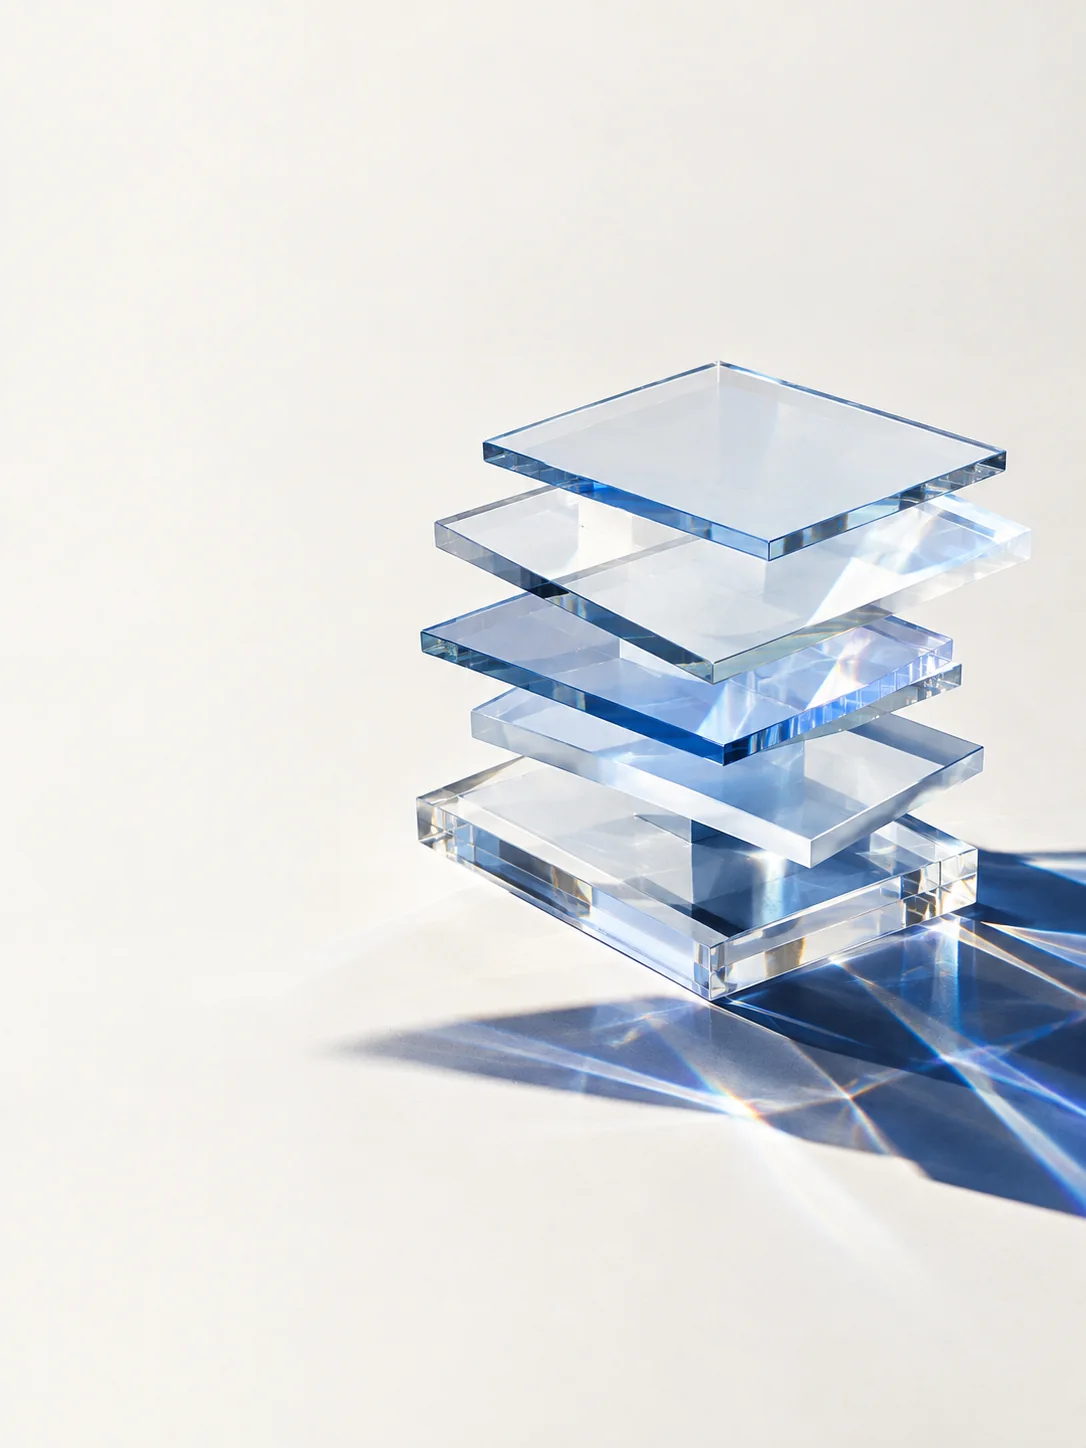
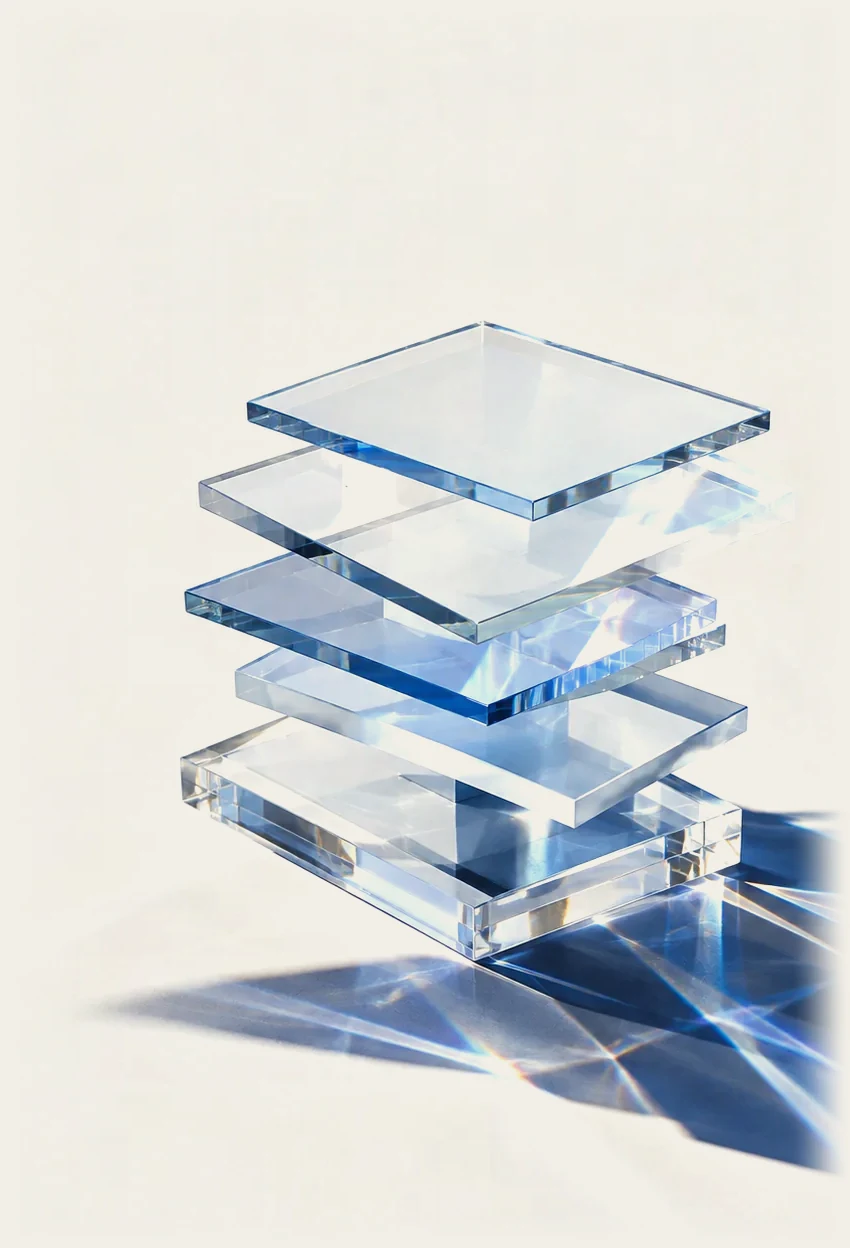
Integra a foto do painel 04 a pagina, como o clipe do painel 01
Mesmo tratamento do predio, agora assado no proprio arquivo. O fundo de
estudio da foto e corrigido para branco puro e multiplicado pelo marfim
da secao, entao ele sai do arquivo exatamente na cor da pagina e o
retangulo deixa de existir. As bordas se dissolvem nessa mesma cor numa
faixa de 7% nas laterais e 3% em cima e embaixo.

Tres detalhes que o clipe nao tinha:

- o degrade do estudio corre nas duas direcoes (246 no canto superior
  esquerdo, 230 no direito), entao uma correcao por linha nao servia. O
  nivel do fundo e uma superficie ajustada aos blocos que sao so fundo,
  medida onde da para medir e interpolada onde o vidro cobre;
- o percentil que estima o fundo acerta o formato do degrade mas fica
  acima do fundo real, o que deixava a foto 3 niveis abaixo do marfim em
  toda a sua area, ou seja um retangulo palido. Um ganho unico, tirado
  da mediana dos blocos limpos, leva o fundo a 255 (medido: 252,6 antes,
  desvio medio na emenda cai de 5,4 para 1,9);
- as margens mortas saem no recorte: o objeto ocupava x 312..1084 e
  y 84..1244 de 1086x1448, quase um terco da largura era so fundo.
  Cortado, o vidro cresce ~16% sem mexer no layout. A direita nao sobra
  nada (o vidro e a sombra saem pela borda), entao aquele lado e
  dissolvido em vez de recortado.

Com o fundo ja na cor certa, a mascara do painel e o filter deixam de
fazer sentido: a mascara comia 34% da esquerda e agora so apagaria a
peca, e contrast(1.02) empurrava o marfim assado de 241,238,230 para
[…]

diff --git a/cinematic.css b/cinematic.css
@@ -288,19 +288,15 @@ h1, h2, h3 { font-weight: 600; line-height: 1.04; letter-spacing: -0.028em; }
 
 /* ---- light-theme panel (e.g. 01 Societário): white bg, image faded on the right ---- */
 .panel.area-light { background: var(--ivory); }
-.panel.area-light .p-media {
-  left: auto; right: 0; width: 48%;
-  -webkit-mask-image:
-    linear-gradient(90deg, transparent 0%, #000 34%, #000 100%),
-    linear-gradient(180deg, transparent 0%, #000 6%, #000 94%, transparent 100%);
-  -webkit-mask-composite: source-in;
-          mask-image:
-    linear-gradient(90deg, transparent 0%, #000 34%, #000 100%),
-    linear-gradient(180deg, transparent 0%, #000 6%, #000 94%, transparent 100%);
-          mask-composite: intersect;
-}
+/* Sem mascara. O fundo de estudio da foto ja foi corrigido e multiplicado
+   pelo marfim da secao no proprio arquivo, e as bordas dela ja se
+   dissolvem nessa cor, entao nao ha retangulo para esconder. A mascara
+   antiga comia 34% da esquerda e agora so apagaria a peca de vidro. */
+.panel.area-light .p-media { left: auto; right: 0; width: 48%; }
 .panel.area-light .p-media image-slot { height: 100%; }
-.panel.area-light .p-media .p-img { width: 100%; height: 100%; object-fit: contain; object-position: center; display: block; filter: saturate(0.92) contrast(1.02); }
+/* sem filter: contrast(1.02) empurrava o marfim assado na imagem de
+   241,238,230 para 243,240,232 e reabria a beirada do retangulo */
+.panel.area-light .p-media .p-img { width: 100%; height: 100%; object-fit: contain; object-position: center; display: block; }
 .panel.area-light .p-media::after { display: none; }
 .panel.area-light::before {
   content: ""; position: absolute; inset: 0; z-index: 1; pointer-events: none;

diff --git a/index.html b/index.html
@@ -146,7 +146,7 @@
 
   <!-- panel 04 -->
   <section class="panel scene area-light" data-screen-label="Área · Capital">
-    <div class="p-media"><img class="p-img" src="assets/capital.webp" width="1086" height="1448" loading="lazy" decoding="async" alt="Placas de vidro empilhadas projetando refrações azuis" /></div>
+    <div class="p-media"><img class="p-img" src="assets/capital.webp" width="850" height="1248" loading="lazy" decoding="async" alt="Placas de vidro empilhadas projetando refrações azuis" /></div>
     <div class="p-body"><div class="wrap">
       <div class="p-num fade">04 · Capital &amp; Operações Especiais</div>
       <h3 class="fade d1">A engenharia jurídica do funding.</h3>
